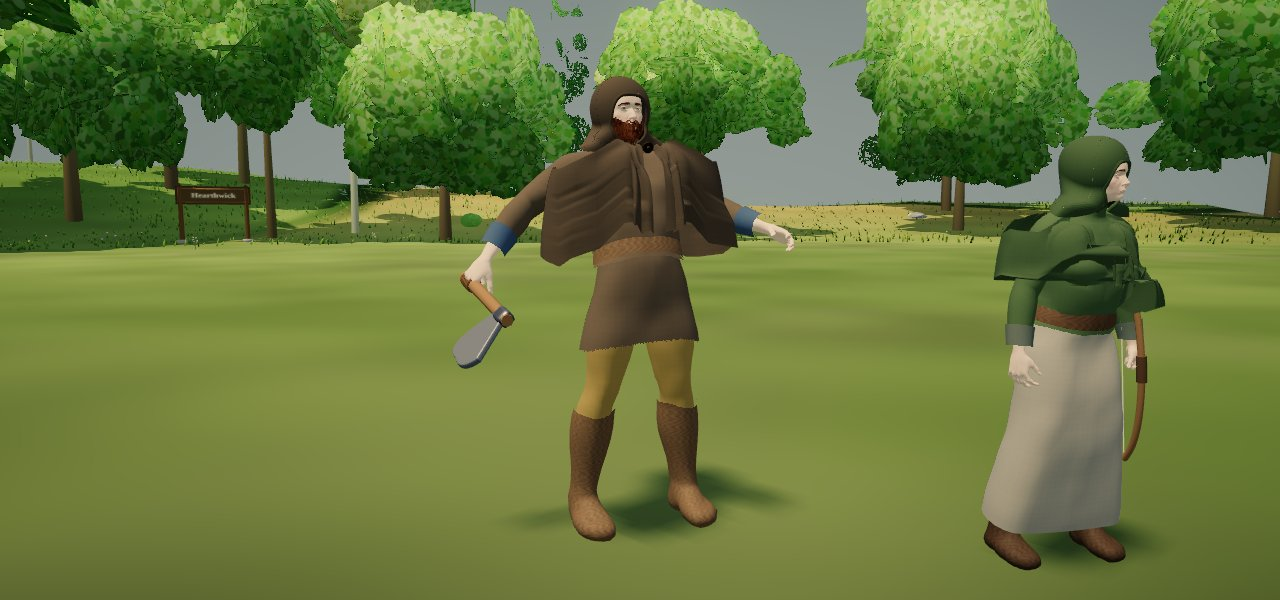
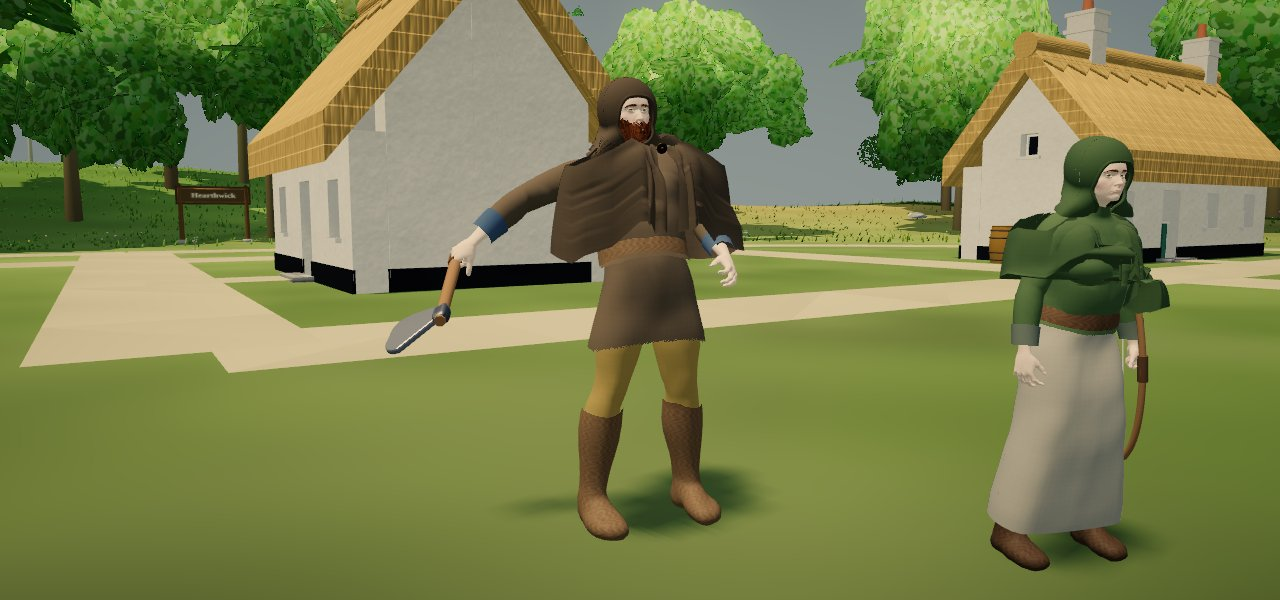
Bodies: Session 1924 — the deflect, beaten rather than shrugged (the critic, 6 Nov; #1192 A)
Claude-Session: https://claude.ai/code/session_019eFMMod6aV7gdqFC3L4u1c

diff --git a/js/32-people.js b/js/32-people.js
@@ -1899,7 +1899,11 @@ function hbHold(rig){const H=rig.hb,top=rig.foe?rig.root.parent:rig.root;top.upd
 // same place). A person-bodied foe's driver is blended toward it after tickPeople has posed it, and the builder's or the kit's body copies
 // it; any other foe (a wolf, a troll on its old rig, a slime) is rocked back whole about its feet. A look only: the stagger, the window
 // and the riposte's damage are the rules', untouched. The foe's right is its -x, so its right arm goes out on -z and its left on +z
-const FOE_DEFLECT={rise:.1,hold:.45,out:.9,lean:.16,j:{shR:[.55,0,-.85],elR:[-.12,0,0],wrR:[.35,0,0],shL:[-.15,0,.62],elL:[-.35,0,0],spine:[-.3,0,0],neck:[.1,0,0],head:[.06,0,0]}};
+// Session 1924 (the critic, 6 Nov: "reads as a shrug", the two arms out level and mirrored, close to a T-pose at 4 m): the
+// two sides are no longer alike. The weapon arm is flung further out and back (.7, -1.15) with the wrist broken back; the shield arm drops
+// low and bent across the hip (.35, .22; the elbow -.7), so the foe is beaten, not standing open; and the trunk is turned away from the
+// blade (spine y -.35, the neck and head a little after it), the weapon's shoulder carried back with the blow
+const FOE_DEFLECT={rise:.1,hold:.45,out:.9,lean:.16,j:{shR:[.7,0,-1.15],elR:[-.2,0,0],wrR:[.5,0,0],shL:[.35,0,.22],elL:[-.7,0,0],spine:[-.3,-.35,0],neck:[.12,.15,0],head:[.08,.1,0]}};
 function foeDeflectK(e){if(!e||typeof e._ripAt!=='number'||e.dead)return 0;const D=FOE_DEFLECT,t=performance.now()/1000-e._ripAt;if(t<0||t>=D.out)return 0;
   const u=t<D.rise?t/D.rise:t<D.hold?1:1-(t-D.hold)/(D.out-D.hold);return u*u*(3-2*u);}
 function foeDeflect(e){const k=foeDeflectK(e);if(!k)return 0;const P=e.limbs&&e.limbs.person,B=P&&P.B;

diff --git a/docs/devlog/1924.md b/docs/devlog/1924.md
@@ -1,0 +1,30 @@
+## v80 — Session 1924 — the deflect, beaten rather than shrugged (L7; Michael's A on #1192; the critic's 6 Nov run)
+The critic's run of 6 Nov judged Session 1898's deflect in still and found it "reads as a shrug". The foe's two arms went out level and
+wide, mirrored, and with a cloak's squared shoulders at 4 m that is close to a T-pose. It reads as a stance, not a blow. The critic's
+remedy: drop the shield arm below the weapon arm, so the two sides are not alike. Michael's A ("the foe's blade beaten aside and the foe
+rocked back and open") is unchanged. This is how the pose carries it.
+
+**What changed** (`js/32-people.js`, `FOE_DEFLECT.j`; the timing, the rules and the stagger are untouched).
+- The weapon arm is flung further out and back. Its shoulder is .7/−1.15, was .55/−.85, and the elbow and the wrist are broken back
+  more (−.2 and .5).
+- The shield arm no longer goes out. It drops low and bent in by the hip: shoulder .35/.22, was −.15/.62, and elbow −.7.
+- The trunk turns away from the blade (spine y −.35, the neck .15 and the head .1 after it). The weapon's shoulder is carried back
+  with the blow. The lean back (−.3) is kept.
+- I tried two twists, side by side. Turned the other way, the weapon arm came forward across the body and read as a wind-up.
+- The same pose goes to the builder's and the kit's bodies, which copy the driver as before.
+
+### Verified (headless Chromium)
+- `f4foes` 1/1 with no retry, with one new check. At the beat, the weapon hand is 0.66 m from the body's axis and the off hand 0.35 m
+  (1.20 and 1.13 m up), and the spine is turned −.35. The check asks for at least 25 cm between the two hands' distances from the axis,
+  and a turn under −.2.
+- Session 1898's checks still pass. The driver lands on the pose (0 off), the weapon hand is thrown 0.68 m, and the envelope is
+  0, .5, 1, 1, 1, .5, 0, its own again after.
+- `parsecheck` is clean.
+- Pictures, from a throwaway script, the Bandit and the Shieldbearer each from two sides at 3 m:
+  - `docs/prototypes/f4/f4-deflect.jpg`, retaken by the suite.
+  - `f4-deflect-was.jpg`, the old pose.
+  - `f4-deflect-sides.jpg`, the new one.
+
+### Needs eyes
+- Whether it reads at full speed. It is in by .1 s and held to .45, and that cannot be judged headless.
+- A left-handed hold (the bow) takes the same pose. The bow's arm is the one that drops.
